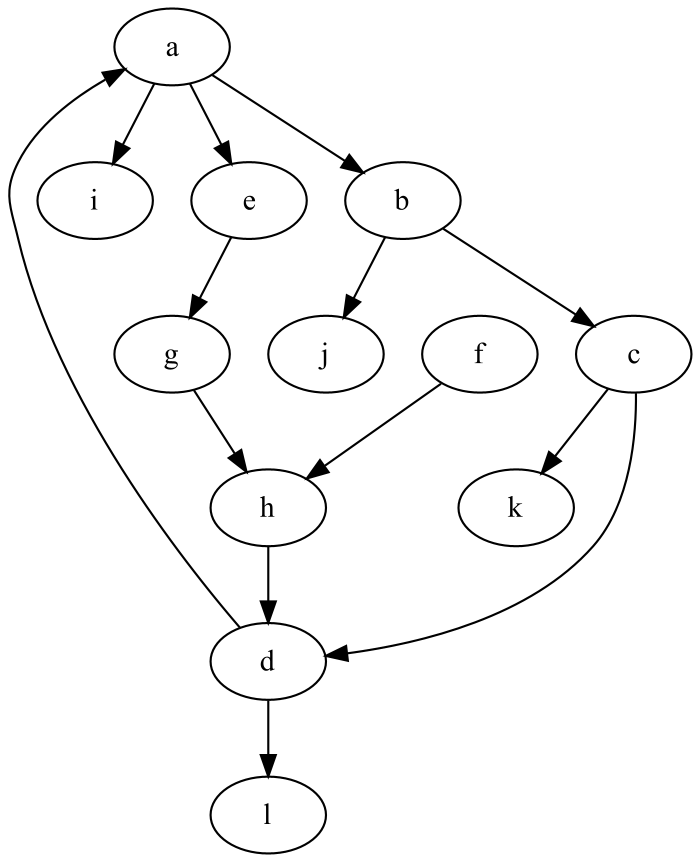
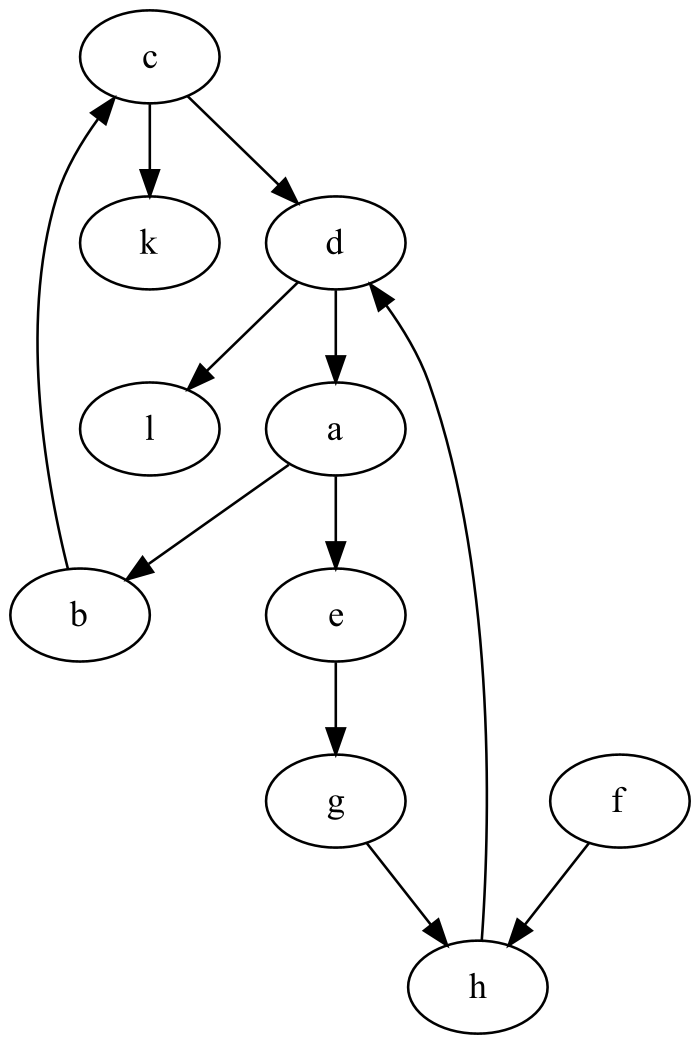
Implemented removeMultipleNodes feature and restructured Junit testing features and modified Main.java to ensure functionality

diff --git a/src/test/java/org/example/GraphParserTest.java b/src/test/java/org/example/GraphParserTest.java
@@ -6,12 +6,18 @@ import java.nio.file.Files;
 import java.nio.file.Paths;
 import java.io.IOException;
 import java.util.NoSuchElementException;
+import org.junit.jupiter.api.Order;
+import org.junit.jupiter.api.TestMethodOrder;
+import org.junit.jupiter.api.MethodOrderer.OrderAnnotation;
 
+@TestMethodOrder(OrderAnnotation.class)
 public class GraphParserTest {
 
     // Test Feature 1: Parsing the graph from a DOT file
     @Test
+    @Order(1)
     public void testParseGraph() throws IOException {
+        System.out.println("\n=== Testing Feature 1: Parsing the Graph ===");
         String inputFilePath = "src/main/resources/input.dot";
         String expectedFilePath = "src/test/resources/expectedGraph.txt";
 
@@ -22,11 +28,14 @@ public class GraphParserTest {
         String expectedOutput = Files.readString(Paths.get(expectedFilePath));
 
         assertEquals(expectedOutput.trim(), actualOutput.trim(), "The parsed graph does not match the expected output");
+        System.out.println("");
     }
 
     // Test Feature 2: Adding nodes
     @Test
+    @Order(2)
     public void testAddNodes() throws IOException {
+        System.out.println("\n=== Testing Feature 2: Adding Nodes ===");
         String inputFilePath = "src/main/resources/input.dot";
         String expectedFilePath = "src/test/resources/expectedNodes.txt";
 
@@ -42,11 +51,14 @@ public class GraphParserTest {
         String expectedOutput = Files.readString(Paths.get(expectedFilePath));
 
         assertEquals(expectedOutput.trim(), actualOutput.trim(), "The nodes do not match the expected output after adding new nodes");
+        System.out.println("");
     }
 
     // Test Feature 3: Adding edges
     @Test
+    @Order(3)
     public void testAddEdges() throws IOException {
+        System.out.println("\n=== Testing Feature 3: Adding Edges ===");
         String inputFilePath = "src/main/resources/input.dot";
         String expectedFilePath = "src/test/resources/expectedEdges.txt";
 
@@ -70,11 +82,14 @@ public class GraphParserTest {
         String expectedOutput = Files.readString(Paths.get(expectedFilePath));
 
         assertEquals(expectedOutput.trim(), actualOutput.trim(), "The edges do not match the expected output after adding new edges");
+        System.out.println("");
     }
 
     // Test Feature 4: Output graph as a DOT file
     @Test
+    @Order(4)
     public void testOutputDOTGraph() throws IOException {
+        System.out.println("\n=== Testing Feature 4: Outputting Graph as DOT File ===");
         String inputFilePath = "src/main/resources/input.dot";
         String expectedDotFilePath = "src/test/resources/expectedGraph.dot";
         String actualDotFilePath = "src/main/resources/outputGraph.dot";
@@ -102,11 +117,14 @@ public class GraphParserTest {
         String expectedOutput = Files.readString(Paths.get(expectedDotFilePath));
 
         assertEquals(expectedOutput.trim(), actualOutput.trim(), "The DOT file output does not match the expected output");
+        System.out.println("");
     }
 
     //Test Feature 5: Remove single node
     @Test
+    @Order(5)
     public void testRemoveNode() throws IOException {
+        System.out.println("\n=== Testing Feature 5: Removing a Single Node ===");
         String inputFilePath = "src/main/resources/input.dot";
         GraphGenerator graphManager = new GraphGenerator();
         graphManager.parseGraph(inputFilePath);
@@ -126,14 +144,61 @@ public class GraphParserTest {
         nodeRemover.removeGraphNode("i");
         assertFalse(graphManager.getGraph().containsVertex("i"), "Node 'i' was not removed");
 
-        // Scenario 2:Attempt to remove a non-existent node
+        // Scenario 2: Test to remove a non-existent node
         assertThrows(NoSuchElementException.class, () -> {
             nodeRemover.removeGraphNode("nonexistentNode");
         }, "Should throw NoSuchElementException");
+        System.out.println("");
     }
 
     //Test Feature 6: Removing multiple nodes
+    @Test
+    @Order(6)
+    public void testRemoveMultipleNodes() throws IOException {
+        System.out.println("\n=== Testing Feature 6: Removing Multiple Nodes ===");
+        String inputFilePath = "src/main/resources/input.dot";
+        GraphGenerator graphManager = new GraphGenerator();
+        graphManager.parseGraph(inputFilePath);
 
+        // Add nodes for verification
+        NodeModifier nodeModifier = new NodeModifier(graphManager.getGraph());
+        nodeModifier.addNode("i");
+        String[] newNodes = {"j", "k", "l"};
+        nodeModifier.addNodes(newNodes);
+
+        //Add edges to establish connection between nodes
+        addEdges graphFeature3 = new addEdges(graphManager.getGraph());
+        graphFeature3.addEdge("a", "i");
+        graphFeature3.addEdge("b", "j");
+
+        // Ensure nodes and edges exist
+        assertTrue(graphManager.getGraph().containsVertex("i"), "Node 'i' should exist before removal");
+        assertTrue(graphManager.getGraph().containsVertex("j"), "Node 'j' should exist before removal");
+        assertTrue(graphManager.getGraph().containsEdge("a", "i"), "Edge 'a -> i' should exist before removal");
+        assertTrue(graphManager.getGraph().containsEdge("b", "j"), "Edge 'b -> j' should exist before removal");
+
+        // Initialize the new class for removing multiple nodes
+        removeMultipleNodes nodeRemover = new removeMultipleNodes(graphManager.getGraph());
+
+        // Scenario 1: Successfully remove existing nodes
+        String[] nodesToRemove = {"i", "j"};
+        nodeRemover.removeNodes(nodesToRemove);
+
+        // Verify that nodes and their associated edges are removed
+        assertFalse(graphManager.getGraph().containsVertex("i"), "Node 'i' was not removed");
+        assertFalse(graphManager.getGraph().containsVertex("j"), "Node 'j' was not removed");
+        assertFalse(graphManager.getGraph().containsEdge("a", "i"), "Edge 'a -> i' was not removed");
+        assertFalse(graphManager.getGraph().containsEdge("b", "j"), "Edge 'b -> j' was not removed");
+
+        // Scenario 2: Test to remove non-existent nodes
+        String[] nonExistentNodes = {"x", "y"};
+        assertThrows(NoSuchElementException.class, () -> {
+            nodeRemover.removeNodes(nonExistentNodes);
+        }, "Should throw NoSuchElementException when removing non-existent nodes");
+        System.out.println("");
+    }
+
+    //Test Feature 7: Removing an edge
 
 
 }

diff --git a/src/main/java/org/example/Main.java b/src/main/java/org/example/Main.java
@@ -1,9 +1,11 @@
 package org.example;
+
 import guru.nidi.graphviz.model.Node;
 import guru.nidi.graphviz.parse.Parser;
 import guru.nidi.graphviz.model.MutableGraph;
 import org.jgrapht.graph.DefaultDirectedGraph;
 import org.jgrapht.graph.DefaultEdge;
+
 import java.io.File;
 import java.io.IOException;
 
@@ -16,12 +18,15 @@ public class Main {
         String outputDotPath = "src/main/resources/outputGraph.dot";
 
         try {
+            // Step 1: Parse the initial graph from the DOT file
             GraphGenerator graphManager = new GraphGenerator();
             graphManager.parseGraph(inputFilePath);
 
+            // Generate the original graph image
             graphManager.outputGraph(outputFilePath1);
             System.out.println("Original graph image generated at: " + outputFilePath1);
 
+            // Step 2: Add nodes using NodeModifier
             NodeModifier graphFeature2 = new NodeModifier(graphManager.getGraph());
             graphFeature2.addNode("i");
             String[] newNodes = {"j", "k", "l"};
@@ -29,9 +34,11 @@ public class Main {
 
             System.out.println(graphFeature2.printGraph());
 
+            // Generate the updated graph image after adding nodes
             graphManager.outputGraph(outputFilePath2);
             System.out.println("Updated graph image generated at: " + outputFilePath2);
 
+            // Step 3: Add edges using addEdges
             addEdges graphFeature3 = new addEdges(graphManager.getGraph());
             graphFeature3.addEdge("a", "i");
             graphFeature3.addEdge("b", "j");
@@ -40,6 +47,14 @@ public class Main {
 
             System.out.println(graphFeature3.printGraph());
 
+            // Step 4: Test removeMultipleNodes feature
+            removeMultipleNodes remover = new removeMultipleNodes(graphManager.getGraph());
+            String[] nodesToRemove = {"i", "j"};
+            remover.removeNodes(nodesToRemove);
+
+            System.out.println(remover.printGraph()); // Print graph after removing nodes
+
+            // Step 5: Generate final graph output
             outputGraph outputFeature4 = new outputGraph(graphManager.getGraph());
             outputFeature4.outputDOTGraph(outputDotPath);
             outputFeature4.outputGraphics(outputFilePath4, "png");
@@ -52,6 +67,7 @@ public class Main {
         }
     }
 }
+
 
 
 

diff --git a/src/main/java/org/example/removeMultipleNodes.java b/src/main/java/org/example/removeMultipleNodes.java
@@ -1,0 +1,52 @@
+package org.example;
+
+import org.jgrapht.graph.DefaultEdge;
+import org.jgrapht.Graph;
+import java.util.NoSuchElementException;
+import java.util.Set;
+
+public class removeMultipleNodes {
+    private Graph<String, DefaultEdge> graph;
+
+    // Constructor to initialize the graph
+    public removeMultipleNodes(Graph<String, DefaultEdge> graph) {
+        this.graph = graph;
+    }
+
+    // Method to remove multiple nodes
+    public void removeNodes(String[] labels) {
+        for (String label : labels) {
+            // Check if the node exists before attempting to remove it
+            if (!graph.containsVertex(label)) {
+                throw new NoSuchElementException("Node with label '" + label + "' does not exist.");
+            }
+
+            // Remove all edges connected to the node
+            Set<DefaultEdge> edgesToRemove = graph.edgesOf(label);
+            for (DefaultEdge edge : edgesToRemove) {
+                graph.removeEdge(edge);
+            }
+
+            // Remove the node itself
+            graph.removeVertex(label);
+            System.out.println("Node '" + label + "' removed successfully.");
+        }
+    }
+
+    //Print Graph Details
+    public String printGraph() {
+        StringBuilder sb = new StringBuilder();
+        sb.append("Graph Details after removing nodes:\n");
+        sb.append("Number of nodes: ").append(graph.vertexSet().size()).append("\n");
+        sb.append("Nodes: ").append(graph.vertexSet()).append("\n");
+        sb.append("Number of edges: ").append(graph.edgeSet().size()).append("\n");
+        sb.append("Edges:\n");
+        graph.edgeSet().forEach(edge -> {
+            String source = graph.getEdgeSource(edge);
+            String target = graph.getEdgeTarget(edge);
+            sb.append(source).append(" -> ").append(target).append("\n");
+        });
+        return sb.toString();
+    }
+}
+

diff --git a/src/main/java/org/example/removeNode.java b/src/main/java/org/example/removeNode.java
@@ -30,6 +30,7 @@ public class removeNode {
         System.out.println("Node '" + label + "' removed");
     }
 
+    //Print Graph Details
     public String printGraph() {
         StringBuilder sb = new StringBuilder();
         sb.append("Graph Details after removing node:\n");
